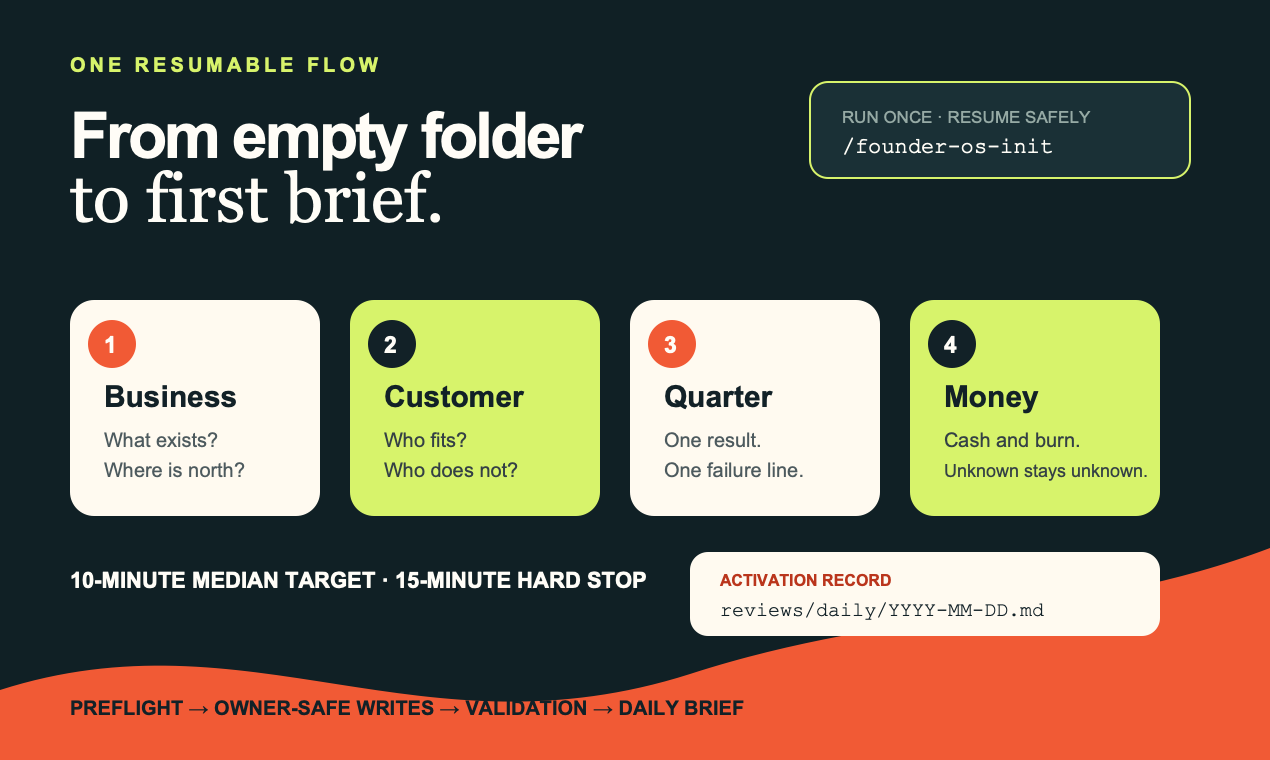
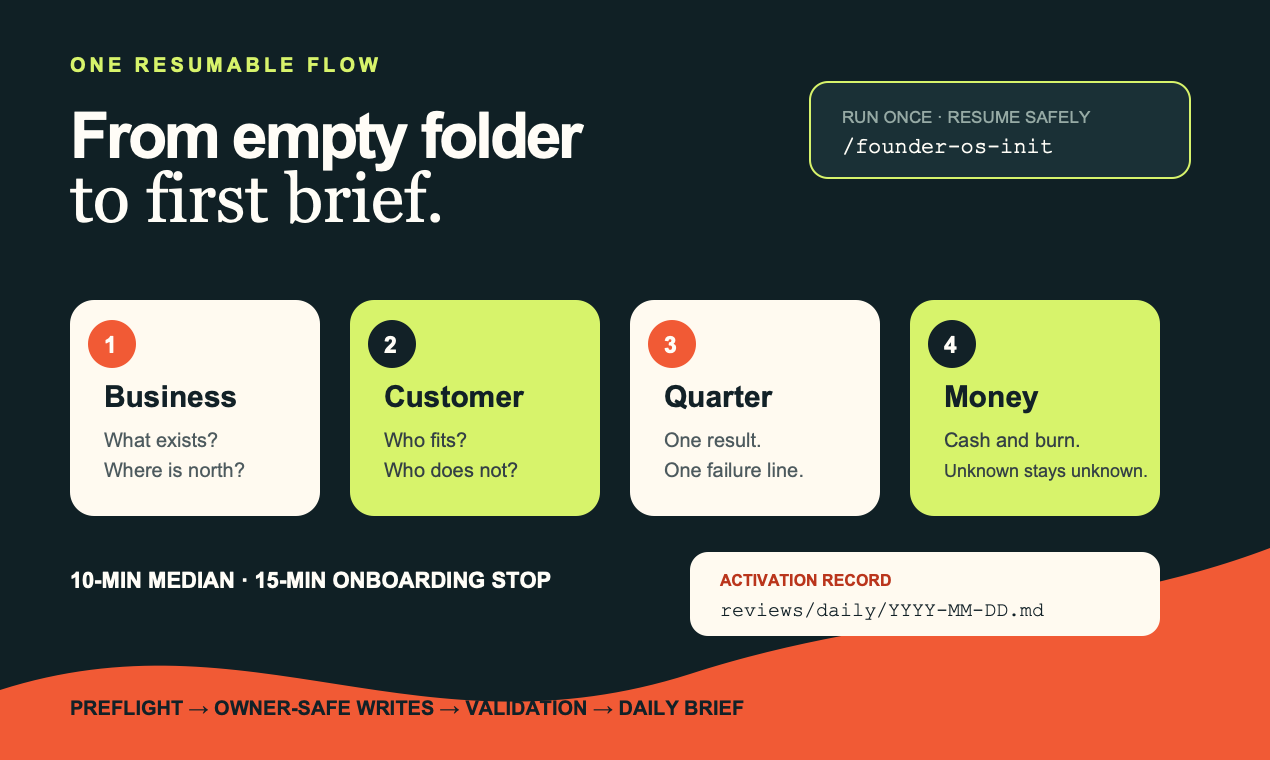
fix(launch): align Product Hunt flow and metadata contracts

Changed region(s): [[0.0921, 0.7263, 0.522, 0.7868]]

diff --git a/tests/test_docs_workflows.py b/tests/test_docs_workflows.py
@@ -7,6 +7,7 @@ import unittest
 from collections import Counter
 from html.parser import HTMLParser
 from pathlib import Path
+from urllib.parse import urlparse
 
 REPO_ROOT = Path(__file__).resolve().parents[1]
 HTML = (REPO_ROOT / "docs" / "index.html").read_text(encoding="utf-8")
@@ -533,14 +534,48 @@ class ProductHuntLaunchKitContractTest(unittest.TestCase):
         readme = self.read_required("README.md")
         if not readme:
             return
+        rows = re.findall(
+            r"\| `([^`]+\.png)` \| (\d+)×(\d+) \| "
+            r"\[`([^`]+\.svg)`\]\(([^)]+)\) \| Alt text: ([^|]+) \|",
+            readme,
+        )
+        self.assertEqual(len(rows), len(PRODUCT_HUNT_IMAGES))
+        inventory = {row[0]: row[1:] for row in rows}
+        self.assertEqual(set(inventory), set(PRODUCT_HUNT_IMAGES))
+        alt_texts = []
         for filename, (width, height) in PRODUCT_HUNT_IMAGES.items():
             with self.subTest(filename=filename):
-                source = f"sources/{filename.removesuffix('.png')}.svg"
-                self.assertIn(filename, readme)
-                self.assertIn(source, readme)
-                self.assertIn(f"{width}×{height}", readme)
-        self.assertGreaterEqual(readme.lower().count("alt text:"), 5)
+                row_width, row_height, source_label, source_href, alt = (
+                    inventory[filename]
+                )
+                expected_source = (
+                    f"sources/{filename.removesuffix('.png')}.svg"
+                )
+                self.assertEqual((int(row_width), int(row_height)), (width, height))
+                self.assertEqual(source_label, expected_source)
+                self.assertEqual(source_href, expected_source)
+                self.assertTrue((PRODUCT_HUNT_DIR / source_href).is_file())
+                self.assertTrue(alt.strip())
+                alt_texts.append(alt.strip())
+        self.assertEqual(len(set(alt_texts)), len(PRODUCT_HUNT_IMAGES))
+        for href in re.findall(r"\[[^]]+\]\(([^)]+)\)", readme):
+            with self.subTest(href=href):
+                if not href.startswith(("https://", "http://", "#")):
+                    self.assertTrue((PRODUCT_HUNT_DIR / href).is_file())
         self.assertIn("Submission checklist", readme)
+
+    def test_listing_uses_a_direct_primary_url(self):
+        listing = self.read_required("listing.md")
+        if not listing:
+            return
+        primary_url = markdown_section(listing, "Primary URL")
+        self.assertEqual(primary_url, "https://msolecki.github.io/founder-os/")
+        parsed = urlparse(primary_url)
+        self.assertEqual(parsed.scheme, "https")
+        self.assertEqual(parsed.netloc, "msolecki.github.io")
+        self.assertEqual(parsed.path, "/founder-os/")
+        self.assertFalse(parsed.query)
+        self.assertFalse(parsed.fragment)
 
     def test_maker_comment_requests_feedback_without_vote_manipulation(self):
         comment = self.read_required("maker-comment.md")
@@ -615,6 +650,16 @@ class ProductHuntLaunchKitContractTest(unittest.TestCase):
                     )
                     self.assertIn("<title", svg)
                     self.assertIn("<desc", svg)
+
+    def test_operating_loop_starts_with_the_brief_and_feeds_inbox_forward(self):
+        source = (
+            PRODUCT_HUNT_DIR / "sources" / "gallery-04-operating-loop.svg"
+        ).read_text(encoding="utf-8")
+        self.assertLess(
+            source.index(">daily brief</text>"),
+            source.index(">inbox.md</text>"),
+        )
+        self.assertIn("feeds the next brief", source.lower())
 
 
 if __name__ == "__main__":

diff --git a/docs/product-hunt/README.md b/docs/product-hunt/README.md
@@ -21,7 +21,7 @@ the real activation run, and posts the maker comment.
 | `gallery-01-outcome.png` | 1270×760 | [`sources/gallery-01-outcome.svg`](sources/gallery-01-outcome.svg) | Alt text: Founder OS daily brief naming one priority and one explicit trade. |
 | `gallery-02-onboarding.png` | 1270×760 | [`sources/gallery-02-onboarding.svg`](sources/gallery-02-onboarding.svg) | Alt text: Four onboarding groups leading from an empty folder to a valid first brief. |
 | `gallery-03-trust.png` | 1270×760 | [`sources/gallery-03-trust.svg`](sources/gallery-03-trust.svg) | Alt text: Four Founder OS trust boundaries: local Markdown, ownership, provenance, and no sending or payments. |
-| `gallery-04-operating-loop.png` | 1270×760 | [`sources/gallery-04-operating-loop.svg`](sources/gallery-04-operating-loop.svg) | Alt text: Daily and weekly Founder OS loop connecting inbox, brief, queue, calendar, pipeline, and review. |
+| `gallery-04-operating-loop.png` | 1270×760 | [`sources/gallery-04-operating-loop.svg`](sources/gallery-04-operating-loop.svg) | Alt text: Founder OS loop from daily brief through committed work and Friday review to the next brief, with inbox notes feeding forward. |
 
 The SVG files are the reviewed visual sources. The PNG files are deterministic
 renders of those sources, not generated screenshots of a fictional successful